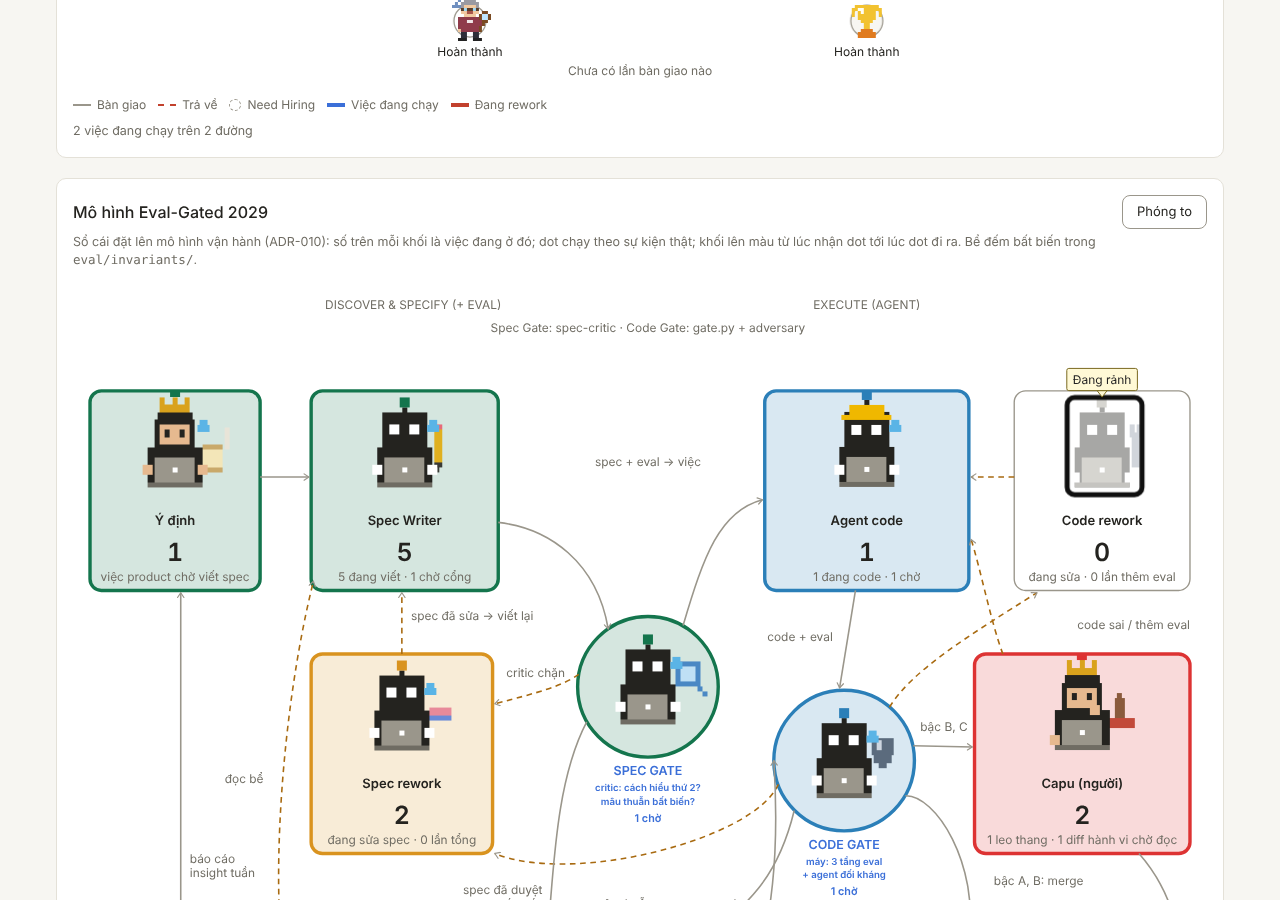
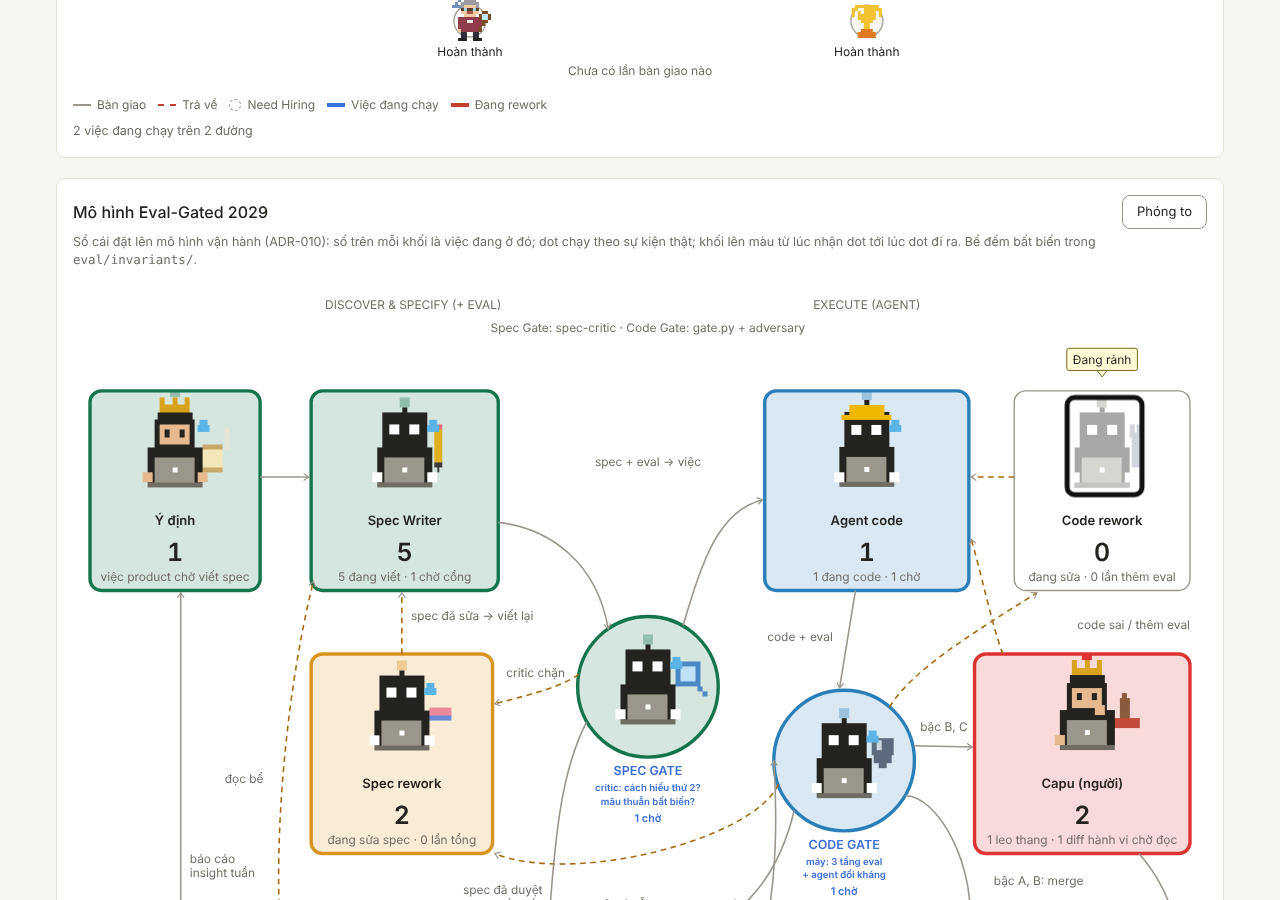
[T-038] Vùng né thân bot gồm biên độ give/take (adv-01, inv-028)
Claude-Session: https://claude.ai/code/session_01UGMXKqieLcV2K1vphWF5EZ

diff --git a/index.html b/index.html
@@ -939,7 +939,7 @@ function sumLay(){
   probe.remove();s.shown=lines;
   const w=Math.max(...ws)+2*pad,lh=fs*1.35,h=lines.length*lh+pad,ts=5/sc,id=s.id;
   const rel=q=>[(q.left-sr.left)/sc,(q.top-sr.top)/sc,(q.right-sr.left)/sc,(q.bottom-sr.top)/sc];
-  const c=CH[id],bw=11*CH_S+4,body=[c.x-bw,c.y-18*CH_S-4,c.x+bw,c.y+16*CH_S+4]; // thân bot (tĩnh, nới để không đè cả khi đang cử động)
+  const c=CH[id],mv=9*CH_S+2,bw=11*CH_S+mv,body=[c.x-bw,c.y-18*CH_S-mv,c.x+bw,c.y+16*CH_S+mv]; // vùng thân bot gồm cả biên độ give/take (9 đơn vị cục bộ), để mọi khung hình không đè
   const blk=$(id),shp=blk&&blk.querySelector(':scope > rect, :scope > circle'),sh=shp?rel(shp.getBoundingClientRect()):body;
   const avoid=[body];blk&&blk.querySelectorAll('text').forEach(t=>{if(t.closest('.mch'))return;const q=t.getBoundingClientRect();if(q.width&&t.textContent.trim())avoid.push(rel(q))});
   const e=0.6/sc,fits=(x,y)=>x>=2&&x+w<=998&&y>=2&&y+h<=svH-2&&!avoid.some(r=>Math.min(x+w,r[2])-Math.max(x,r[0])>e&&Math.min(y+h,r[3])-Math.max(y,r[1])>e);
